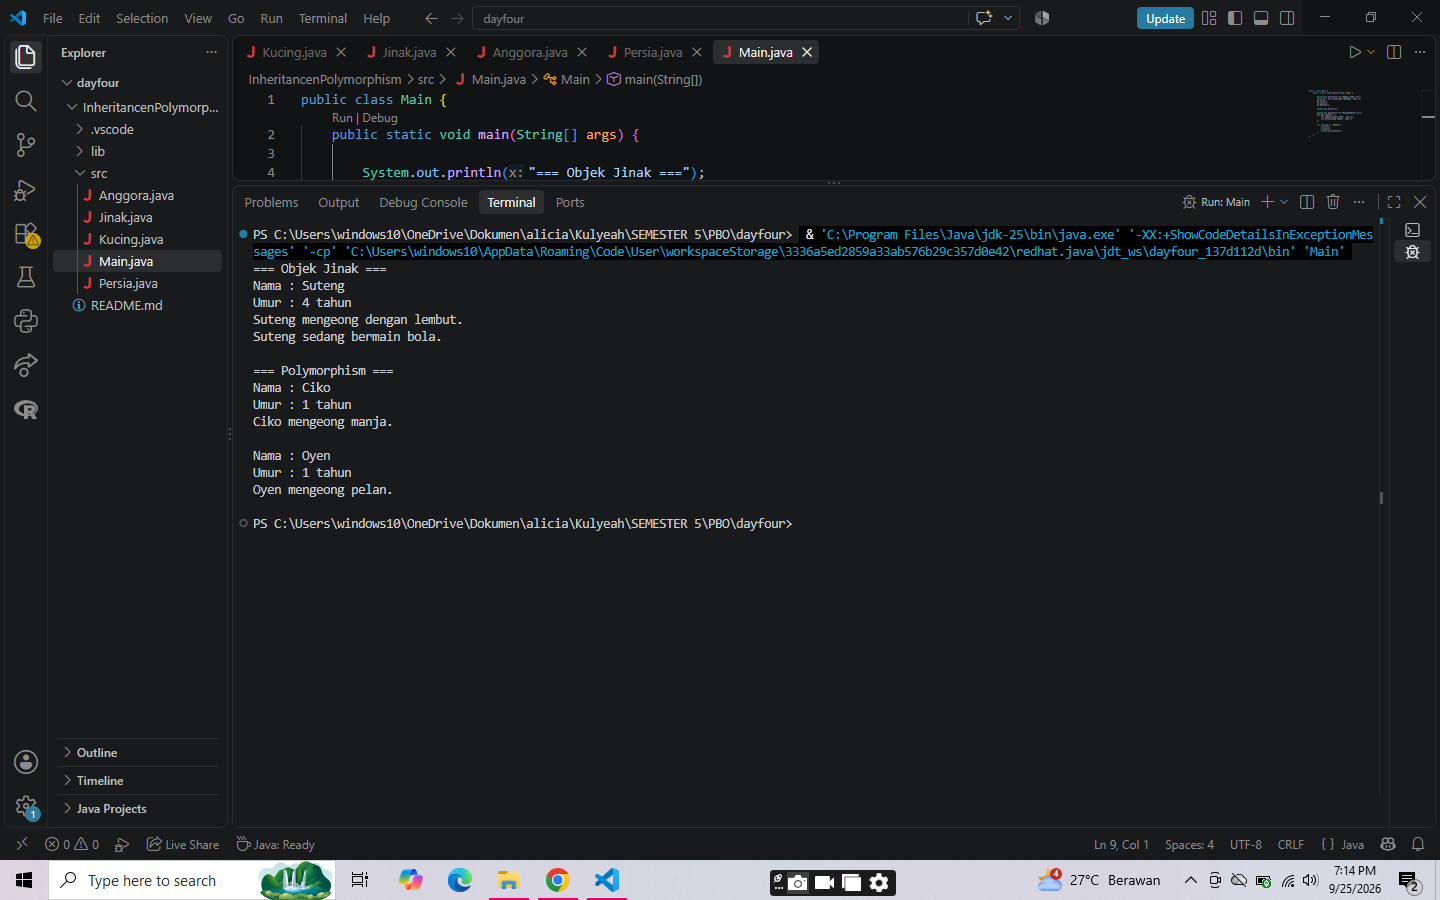
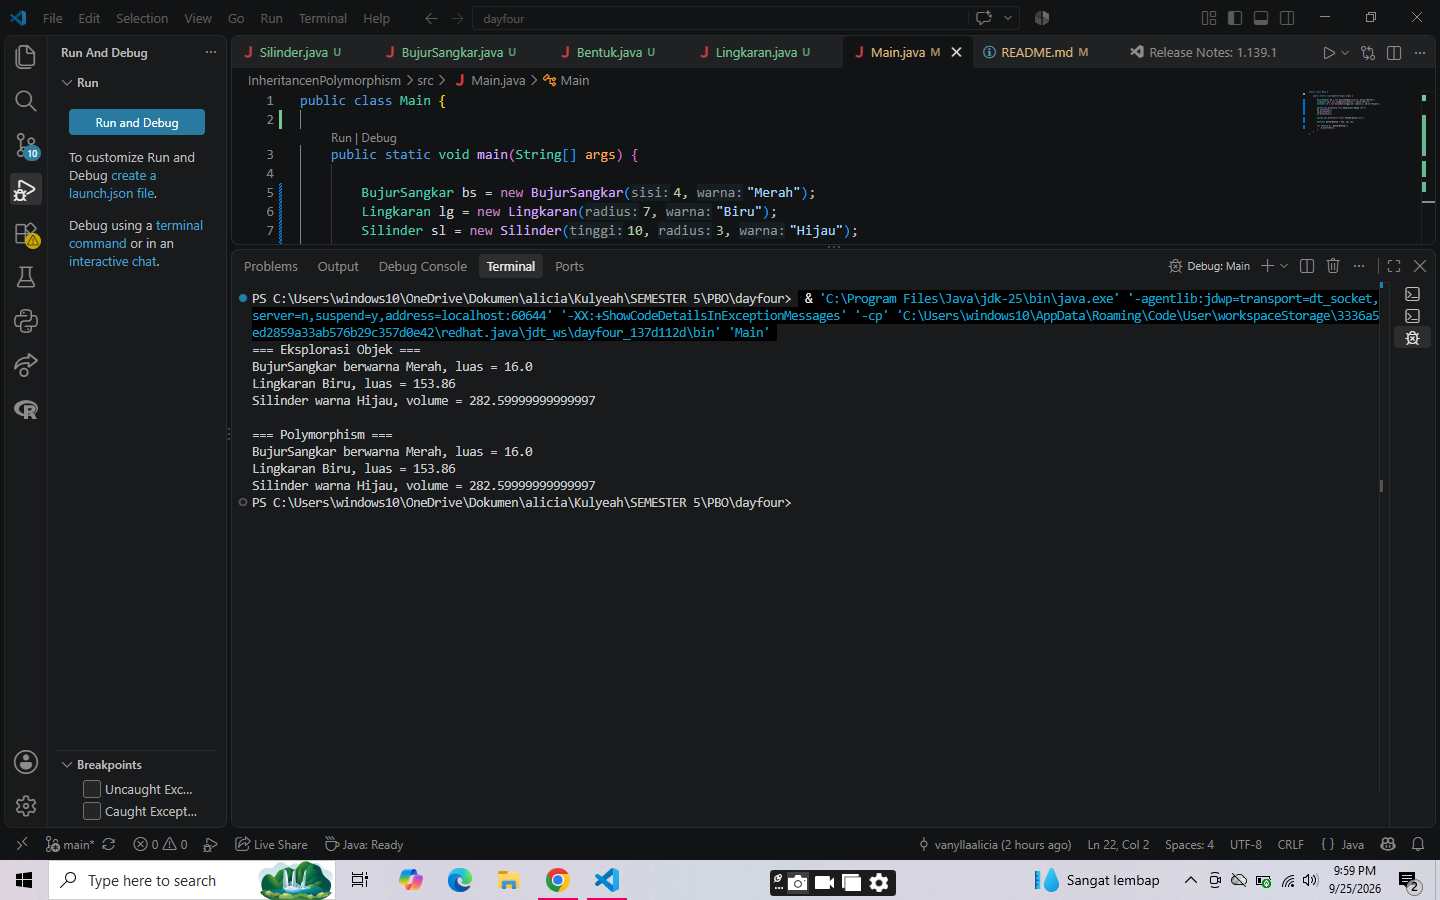
tugas4

diff --git a/src/Main.java b/src/Main.java
@@ -1,24 +1,22 @@
 public class Main {
+
     public static void main(String[] args) {
 
-        System.out.println("=== Objek Jinak ===");
-        Jinak k1 = new Jinak("Suteng", 4);
-        k1.info();
-        k1.suara();
-        k1.bermain();
+        BujurSangkar bs = new BujurSangkar(4, "Merah");
+        Lingkaran lg = new Lingkaran(7, "Biru");
+        Silinder sl = new Silinder(10, 3, "Hijau");
 
-        System.out.println();
+        System.out.println("=== Eksplorasi Objek ===");
+        bs.printInfo();
+        lg.printInfo();
+        sl.printInfo();
 
-        System.out.println("=== Polymorphism ===");
-        Kucing[] daftar = {
-            new Anggora("Ciko", 1),
-            new Persia("Oyen", 1)
-        };
+        System.out.println("\n=== Polymorphism ===");
 
-        for (Kucing k : daftar) {
-            k.info();
-            k.suara();
-            System.out.println();
+        Bentuk[] daftarBentuk = {bs, lg, sl};
+
+        for (Bentuk b : daftarBentuk) {
+            b.printInfo();
         }
     }
 }

diff --git a/src/Lingkaran.java b/src/Lingkaran.java
@@ -1,0 +1,28 @@
+public class Lingkaran extends Bentuk {
+
+    protected double radius;
+    public static final double PHI = 3.14;
+
+    public Lingkaran(double radius, String warna) {
+        super(warna);
+        this.radius = radius;
+    }
+
+    public double getRadius() {
+        return radius;
+    }
+
+    public void setRadius(double radius) {
+        this.radius = radius;
+    }
+
+    public double hitungLuas() {
+        return PHI * radius * radius;
+    }
+
+    @Override
+    public void printInfo() {
+        System.out.println("Lingkaran " + getWarna()
+                + ", luas = " + hitungLuas());
+    }
+}

diff --git a/src/Silinder.java b/src/Silinder.java
@@ -1,0 +1,27 @@
+public class Silinder extends Lingkaran {
+
+    private double tinggi;
+
+    public Silinder(double tinggi, double radius, String warna) {
+        super(radius, warna);
+        this.tinggi = tinggi;
+    }
+
+    public double getTinggi() {
+        return tinggi;
+    }
+
+    public void setTinggi(double tinggi) {
+        this.tinggi = tinggi;
+    }
+
+    public double hitungVolume() {
+        return hitungLuas() * tinggi;
+    }
+
+    @Override
+    public void printInfo() {
+        System.out.println("Silinder warna " + getWarna()
+                + ", volume = " + hitungVolume());
+    }
+}

diff --git a/src/BujurSangkar.java b/src/BujurSangkar.java
@@ -1,0 +1,27 @@
+public class BujurSangkar extends Bentuk {
+
+    private double sisi;
+
+    public BujurSangkar(double sisi, String warna) {
+        super(warna);
+        this.sisi = sisi;
+    }
+
+    public double getSisi() {
+        return sisi;
+    }
+
+    public void setSisi(double sisi) {
+        this.sisi = sisi;
+    }
+
+    public double hitungLuas() {
+        return sisi * sisi;
+    }
+
+    @Override
+    public void printInfo() {
+        System.out.println("BujurSangkar berwarna " + getWarna()
+                + ", luas = " + hitungLuas());
+    }
+}

diff --git a/src/Bentuk.java b/src/Bentuk.java
@@ -1,0 +1,20 @@
+public class Bentuk {
+
+    protected String warna;
+
+    public Bentuk(String warna) {
+        this.warna = warna;
+    }
+
+    public String getWarna() {
+        return warna;
+    }
+
+    public void setWarna(String warna) {
+        this.warna = warna;
+    }
+
+    public void printInfo() {
+        System.out.println("Bentuk berwarna " + warna);
+    }
+}

diff --git a/README.md b/README.md
@@ -1,20 +1,75 @@
-# Latihan Inheritance dan Polymorphism Java
+# Latihan Inheritance dan Polymorphism
 
-Repository ini berisi latihan mengenai konsep **Encapsulation, Inheritance, dan Polymorphism** dalam Java.
+## Struktur Program
 
-## Struktur Class
+```
+src/
+├── Bentuk.java
+├── BujurSangkar.java
+├── Lingkaran.java
+├── Silinder.java
+└── Main.java
+```
 
-Kucing (Superclass)
-    └── Jinak (Subclass)
-            ├── Anggora
-            └── Persia
+## Penjelasan Konsep
 
-## Konsep yang Digunakan
+### 1. Inheritance
 
-### 1. Encapsulation
+Inheritance adalah konsep pewarisan, yaitu class turunan dapat mewarisi atribut dan method dari class induknya menggunakan keyword `extends`.
 
-- Atribut `nama` dan `umur` pada class `Kucing` dibuat `private`.
-- Akses dilakukan melalui `getter` dan `setter`.
+Pada program ini hubungan pewarisannya adalah:
 
-### Screenshot Output
-![Hasil](Output/Screenshot.png)
+- `Bentuk` (Superclass)
+  - `BujurSangkar`
+  - `Lingkaran`
+    - `Silinder`
+
+Contoh penggunaan inheritance:
+
+```java
+public class BujurSangkar extends Bentuk
+```
+
+Class `BujurSangkar` mewarisi atribut `warna` beserta method `getWarna()`, `setWarna()`, dan `printInfo()` dari class `Bentuk`.
+
+Selain itu, constructor pada class turunan menggunakan `super()` untuk memanggil constructor milik parent class.
+
+Contoh:
+
+```java
+super(warna);
+```
+
+---
+
+### 2. Polymorphism
+
+Polymorphism pada program ini menggunakan **method overriding**, yaitu setiap class turunan menuliskan kembali method `printInfo()` dengan perilaku yang berbeda.
+
+Contoh:
+
+- `Bentuk` menampilkan warna.
+- `BujurSangkar` menampilkan warna dan luas.
+- `Lingkaran` menampilkan warna dan luas.
+- `Silinder` menampilkan warna dan volume.
+
+Pada `Main.java`, polymorphism ditunjukkan dengan menyimpan beberapa objek berbeda ke dalam array bertipe `Bentuk`.
+
+```java
+Bentuk[] daftarBentuk = {bs, lg, sl};
+
+for (Bentuk b : daftarBentuk) {
+    b.printInfo();
+}
+```
+
+Walaupun tipe referensinya `Bentuk`, method `printInfo()` yang dijalankan mengikuti jenis objek sebenarnya.
+
+---
+
+
+## Screenshot
+
+Berikut hasil saat program dijalankan.
+
+![Output](Output/Screenshot.png)
